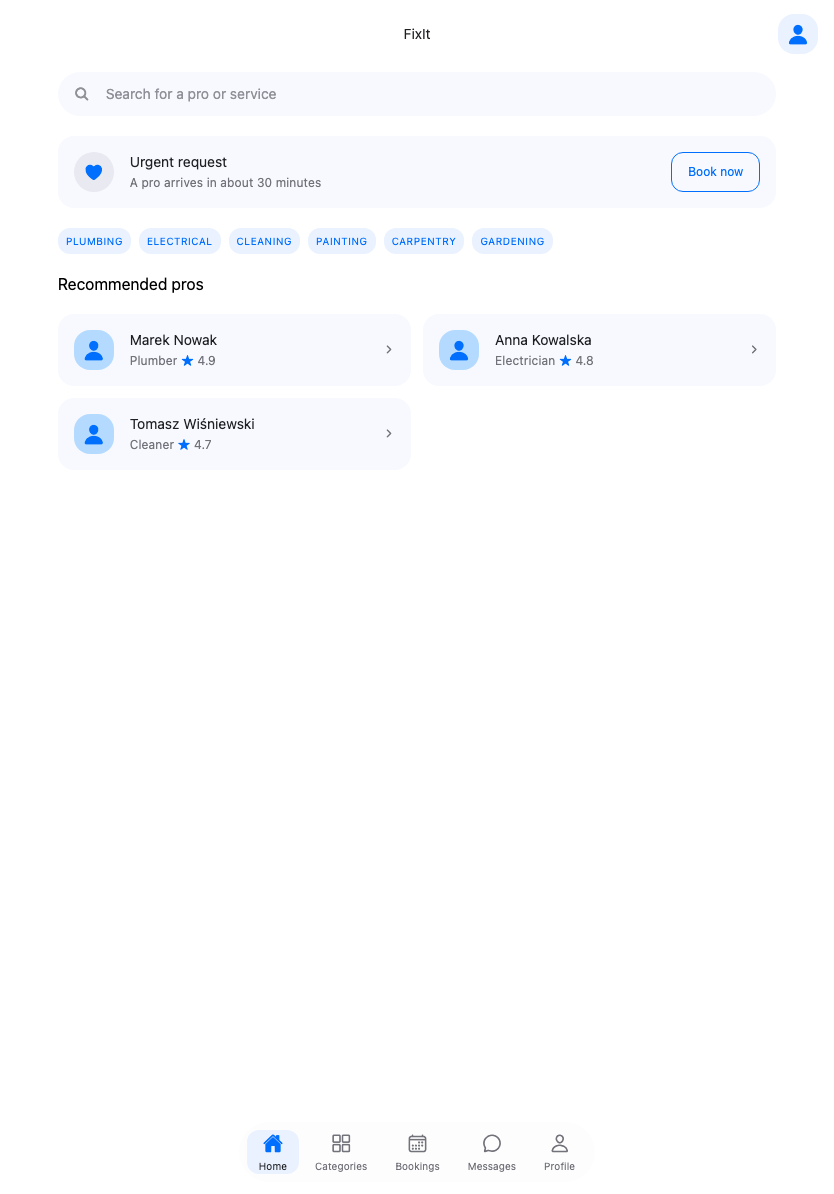
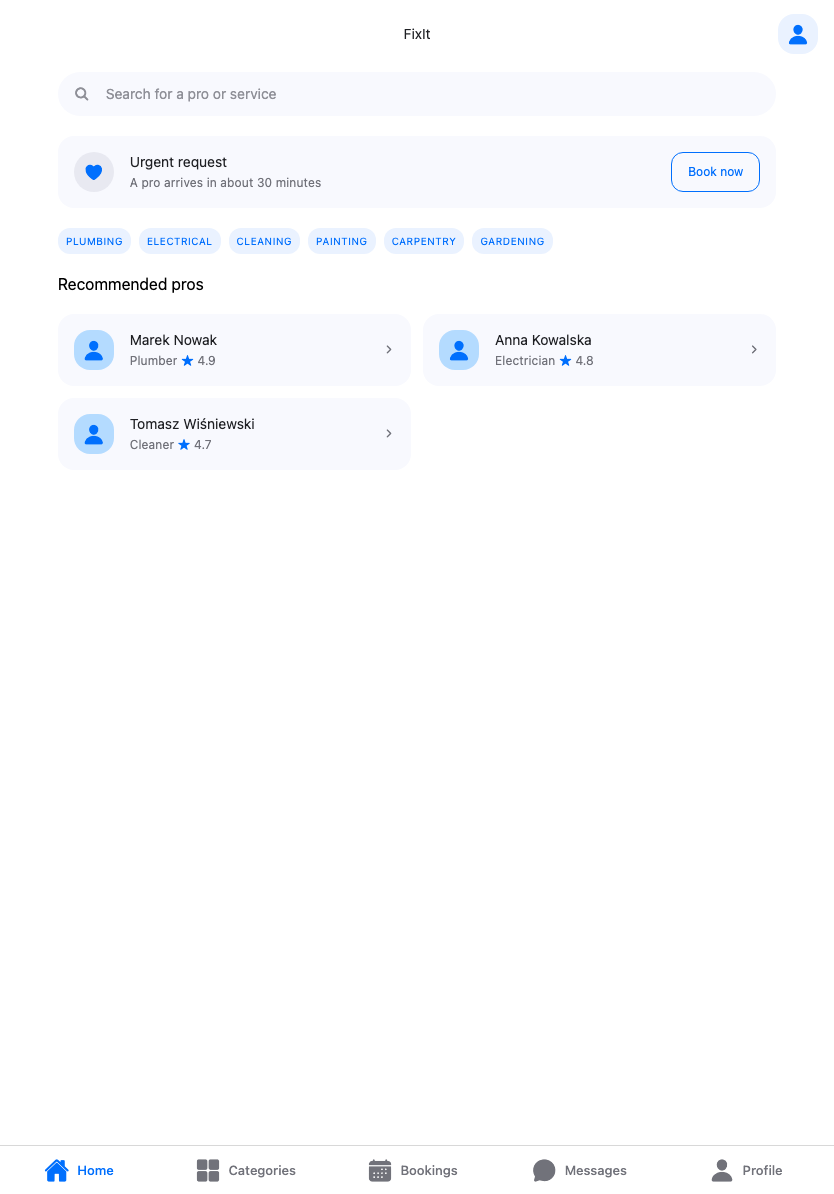
fix: restore web bundling with a platform-split RootNavigator
react-native-bottom-tabs wraps native UIKit/Compose views and has no
web target — importing it at all broke `npm run web` outright (Metro
couldn't bundle a codegen-native-component import), not just the tab
bar visually. Split into RootNavigator.native.tsx (the real thing) and
RootNavigator.web.tsx (a plain @react-navigation/bottom-tabs fallback,
per the library's own web-platform-support guide) so Metro picks the
right one per platform.

tsconfig needs `moduleSuffixes` for tsc to resolve these the same way
Metro does; eslint-import-resolver-typescript doesn't support that
option yet, hence the one scoped disable comment in App.tsx.

diff --git a/src/navigation/RootNavigator.web.tsx b/src/navigation/RootNavigator.web.tsx
@@ -1,0 +1,108 @@
+import { Ionicons } from '@expo/vector-icons';
+import { createBottomTabNavigator } from '@react-navigation/bottom-tabs';
+import { NavigationContainer } from '@react-navigation/native';
+import { createNativeStackNavigator } from '@react-navigation/native-stack';
+import type { ComponentProps } from 'react';
+
+import { CategoriesScreen } from '@/screens/CategoriesScreen';
+import { HomeScreen } from '@/screens/HomeScreen';
+import { PlaceholderScreen } from '@/screens/PlaceholderScreen';
+import { ProDetailsScreen } from '@/screens/ProDetailsScreen';
+import { colors } from '@/theme';
+
+import type { HomeStackParamList, RootTabParamList } from './types';
+import type { RootNavigatorProps } from './RootNavigator.native';
+
+const Tab = createBottomTabNavigator<RootTabParamList>();
+const HomeStack = createNativeStackNavigator<HomeStackParamList>();
+
+function HomeStackNavigator() {
+  return (
+    <HomeStack.Navigator screenOptions={{ headerShown: false }}>
+      <HomeStack.Screen name="HomeMain" component={HomeScreen} />
+      <HomeStack.Screen name="ProDetails" component={ProDetailsScreen} />
+    </HomeStack.Navigator>
+  );
+}
+
+function MessagesTab() {
+  return <PlaceholderScreen title="Messages" icon="chatbubble-outline" />;
+}
+
+function ProfileTab() {
+  return <PlaceholderScreen title="Profile" icon="person-outline" />;
+}
+
+const TAB_ICONS: Record<keyof RootTabParamList, ComponentProps<typeof Ionicons>['name']> = {
+  Home: 'home',
+  Categories: 'grid',
+  Bookings: 'calendar',
+  Messages: 'chatbubble',
+  Profile: 'person',
+};
+
+/**
+ * react-native-bottom-tabs has no web target (it wraps native UIKit/Compose
+ * views), so this dev-only fallback keeps `npm run web` bundling — a plain
+ * JS bottom-tabs bar, per the library's own web-platform-support guide.
+ * `androidIcons` only exists for RootNavigator.native's signature; unused here.
+ */
+export function RootNavigator(_props: RootNavigatorProps) {
+  return (
+    <NavigationContainer>
+      <Tab.Navigator
+        screenOptions={{
+          headerShown: false,
+          tabBarActiveTintColor: colors.primary,
+          tabBarInactiveTintColor: colors.textMuted,
+        }}
+      >
+        <Tab.Screen
+          name="Home"
+          component={HomeStackNavigator}
+          options={{
+            tabBarIcon: ({ color, size }) => (
+              <Ionicons name={TAB_ICONS.Home} size={size} color={color} />
+            ),
+          }}
+        />
+        <Tab.Screen
+          name="Categories"
+          component={CategoriesScreen}
+          options={{
+            tabBarIcon: ({ color, size }) => (
+              <Ionicons name={TAB_ICONS.Categories} size={size} color={color} />
+            ),
+          }}
+        />
+        <Tab.Screen
+          name="Bookings"
+          component={ProDetailsScreen}
+          options={{
+            tabBarIcon: ({ color, size }) => (
+              <Ionicons name={TAB_ICONS.Bookings} size={size} color={color} />
+            ),
+          }}
+        />
+        <Tab.Screen
+          name="Messages"
+          component={MessagesTab}
+          options={{
+            tabBarIcon: ({ color, size }) => (
+              <Ionicons name={TAB_ICONS.Messages} size={size} color={color} />
+            ),
+          }}
+        />
+        <Tab.Screen
+          name="Profile"
+          component={ProfileTab}
+          options={{
+            tabBarIcon: ({ color, size }) => (
+              <Ionicons name={TAB_ICONS.Profile} size={size} color={color} />
+            ),
+          }}
+        />
+      </Tab.Navigator>
+    </NavigationContainer>
+  );
+}

diff --git a/App.tsx b/App.tsx
@@ -11,6 +11,9 @@ import { Platform, StyleSheet, View } from 'react-native';
 import { GestureHandlerRootView } from 'react-native-gesture-handler';
 import { SafeAreaProvider } from 'react-native-safe-area-context';
 
+// Metro (and tsc, via tsconfig's moduleSuffixes) resolve RootNavigator.native.tsx/.web.tsx
+// fine; eslint-import-resolver-typescript doesn't know about moduleSuffixes yet.
+// eslint-disable-next-line import/no-unresolved
 import { RootNavigator } from '@/navigation/RootNavigator';
 import { TAB_ANDROID_ICON_NAMES, useAndroidTabIcons } from '@/navigation/useAndroidTabIcons';
 import { colors } from '@/theme';
